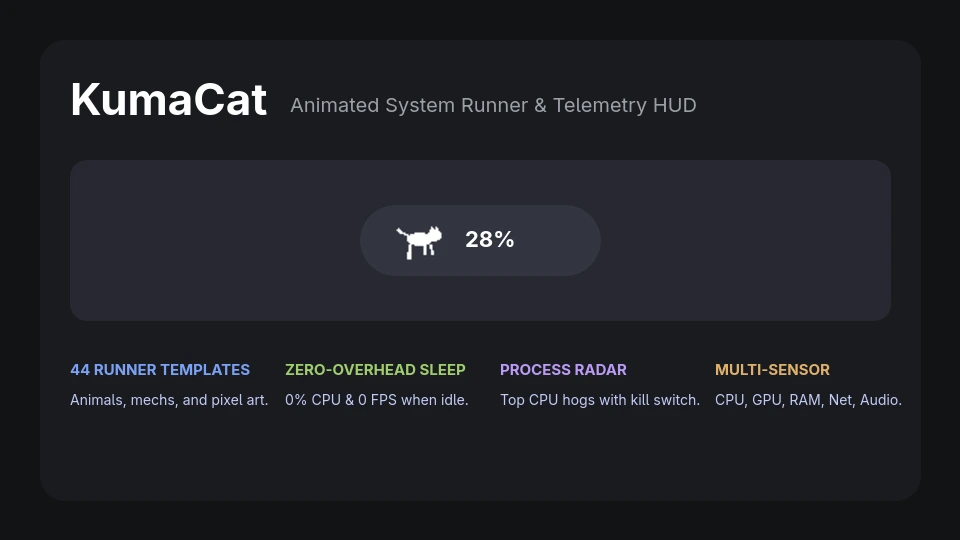
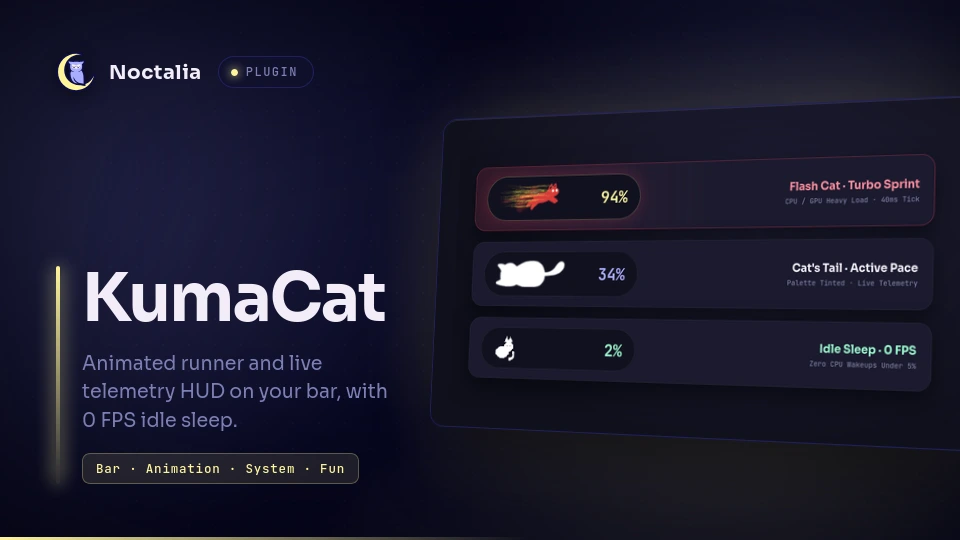
feat(kumacat): add sprite runners, fix telemetry and thumbnail

diff --git a/kumacat/README.md b/kumacat/README.md
@@ -1,6 +1,6 @@
 # KumaCat
 
-An animated runner bar widget and hardware telemetry HUD for Noctalia. It curls up and sleeps when your system is idle, jogs as background tasks pick up, and breaks into a full sprint under heavy compilation or gaming loads.
+An animated runner bar widget and hardware telemetry HUD for Noctalia. It curls up and sleeps at 0 FPS when your system is idle, walks as background tasks pick up, and breaks into a full sprint under heavy CPU, memory, or GPU loads.
 
 ## Plugin
 
@@ -11,7 +11,7 @@ An animated runner bar widget and hardware telemetry HUD for Noctalia. It curls 
 
 ## Usage
 
-Add the "KumaCat" widget to any bar from Settings -> Bar -> Add Widget. Click the widget to toggle an attached telemetry HUD panel showing CPU, memory, and GPU gauges along with a live mirrored runner. Click anywhere outside the panel to dismiss it.
+Add the "KumaCat" widget to any bar from Settings -> Bar -> Add Widget. Select the widget to toggle an attached telemetry HUD panel showing CPU, memory, and GPU gauges along with a live synchronized runner and settings shortcut. Select anywhere outside the panel to dismiss it.
 
 The panel can also be toggled directly over IPC:
 
@@ -23,17 +23,23 @@ noctalia msg panel-toggle mhdomer/kumacat:panel
 
 | Setting | Type | Default | Description |
 | --- | --- | --- | --- |
-| `cat_size` | `int` | `24` | Sprite size in the bar, in pixels (12 to 48). |
+| `runner_style` | `select` | `flash-cat` | Choose between sprite packs (`flash-cat`, `cat-tail`) or theme-recolored `classic-cat` vector glyphs. |
+| `cat_size` | `int` | `24` | Runner height in the bar, in pixels (12 to 48). |
 | `drive_metric` | `select` | `cpu` | Hardware telemetry stream that drives runner speed (`cpu`, `memory`, or `gpu`). |
-| `show_metric_percent` | `bool` | `false` | Display the metric percentage text next to the runner. |
-| `sleep_threshold` | `int` | `5` | Load percentage below which the runner sleeps at zero FPS to eliminate CPU wakeups. |
-| `turbo_threshold` | `int` | `75` | Load percentage at which the runner breaks into a sprint. |
-| `poll_interval` | `int` | `2` | How often to read hardware telemetry, in seconds (1 to 10). |
-| `cat_color_mode` | `select` | `theme` | `theme` colors the cat with the palette's secondary role; `custom` uses the color below. |
-| `cat_color` | `color` | `#E8A24C` | Used when `cat_color_mode` is custom. |
+| `show_metric_percent` | `bool` | `false` | Display the active metric percentage text next to the runner. |
+| `sleep_threshold` | `int` | `5` | Load percentage below which the runner sleeps at zero FPS and slows timer wakeups to `poll_interval`. |
+| `turbo_threshold` | `int` | `75` | Load percentage at which the runner enters sprint pace. |
+| `poll_interval` | `int` | `2` | How often to sample hardware telemetry, in seconds (1 to 10). |
+| `cat_color_mode` | `select` | `theme` | `theme` colors Classic Cat glyphs, bar percentage text, and HUD primary gauge with the palette's `secondary` role; `custom` uses `cat_color`. |
+| `cat_color` | `color` | `#E8A24C` | Custom hex color used when `cat_color_mode` is `custom`. |
 
 ## Notes
 
-Every `poll_interval` seconds the widget samples system statistics via Noctalia's native host monitor (`noctalia.systemStats()`, plugin API 12). When system load drops below the configured sleep threshold, the runner transitions to idle sleep mode, halting animation frame ticks to conserve CPU cycles and battery life.
-
-The attached HUD panel mirrors runner state through Noctalia's in-process shared state store (`noctalia.state`), meaning the panel introduces zero independent sampling overhead. The runner glyphs are loaded from an optimized custom vector icon font (`fonts/kumacat.otf`), traced from the MIT-licensed CatWalk plasmoid by Driglu4it, allowing instant palette recoloring with zero texture memory bloat.
+- **Zero external commands or network calls:** KumaCat reads snapshots exposed by Noctalia's built-in system monitor (`noctalia.systemStats()`, plugin API 12). Apart from loading its bundled font and PNG sprites, no files are read or written, nothing is downloaded, and no subprocesses are spawned.
+- **Zero-FPS idle sleep:** When the active metric drops below `sleep_threshold`, `kumacat.luau` switches `noctalia.setUpdateInterval` from the `80ms` animation tick to `poll_interval` (`2000ms` by default), eliminating animation timer wakeups while idle.
+- **GPU power hygiene:** On Noctalia releases supporting explicit GPU monitoring (`noctalia.setGpuMonitoring`, API 46), the bar widget only requests GPU probing when `drive_metric` is set to `gpu`, and the HUD panel requests GPU probing on `onOpen()` and releases it on `onClose()`.
+- **Shared state panel sync:** The attached HUD panel mirrors the bar widget through `noctalia.state` without running an independent sampling loop. Without a KumaCat widget placed on any bar, the panel displays the sleeping sprite at 0%.
+- **Artwork & license credits (`MIT AND Apache-2.0`):**
+  - `runners/flash-cat/*` and `runners/cat-tail/*`: designed by Takuto Nakamura (`@Kyome22`) for [RunCat RunnerGallery](https://github.com/runcat-dev/RunnerGallery), licensed under Apache-2.0.
+  - `runners/sleep.png`: designed by Roy C. Davies (`@reality2-roycdavies`) for [cosmic-runkat](https://github.com/reality2-roycdavies/cosmic-runkat), licensed under MIT.
+  - `fonts/kumacat.otf`: vector cat icon font traced from the [CatWalk](https://store.kde.org/p/2055225) plasmoid by Driglu4it (packaged by DotNetRob in `dotnetrob/cat`), licensed under MIT.
